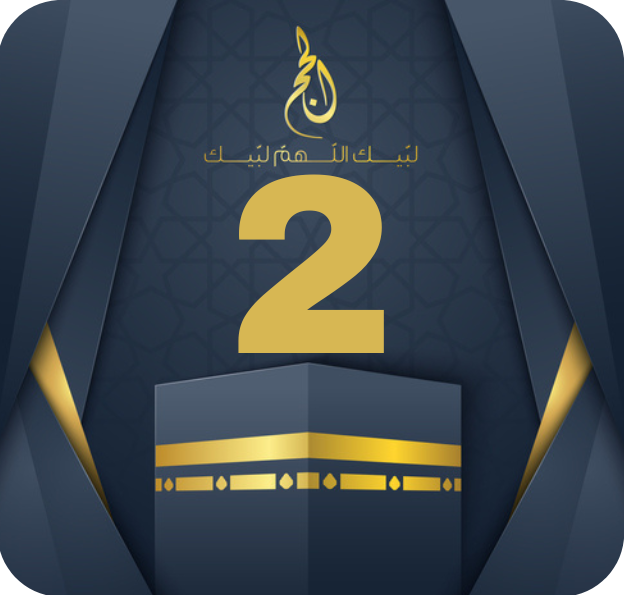
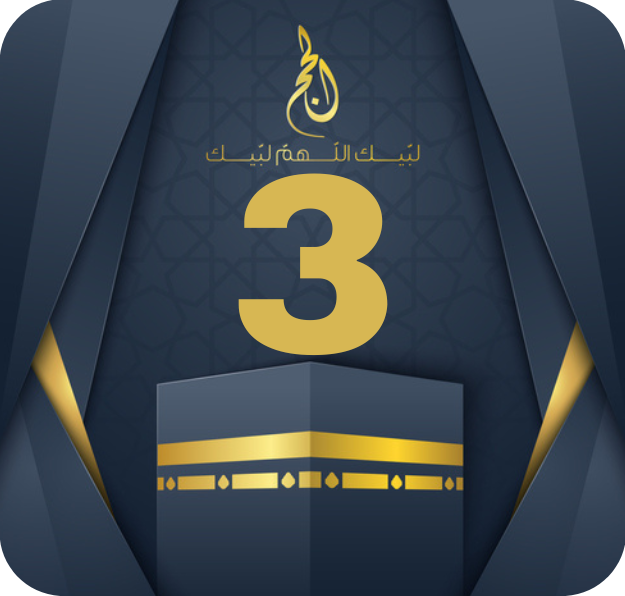
Hajj cards finalized

diff --git a/src/pages/HajjPackages.jsx b/src/pages/HajjPackages.jsx
@@ -1,9 +1,29 @@
 import HajjCard from "../components/HajjCard";
 
 const HajjPackages = () => {
+  let data = [
+    {
+      id: 1,
+      image: "card1.png",
+      text: "Le programme 1 commence à Médine, où vous serez logé dans un hôtel à moins d'1 km de la mosquée du Prophète Muhammad ﷺ. Ensuite, vous serez transféré dans un hôtel à moins d'1 km de la Kaaba à La Mecque. Vous y serez hébergé et conserverez votre chambre à La Mecque pendant les Manasik. Après les Manasik, vous resterez à La Mecque jusqu'à votre transfert à l'aéroport de Djeddah pour votre vol de départ.",
+    },
+    {
+      id: 2,
+      image: "card2.png",
+      text: "Le programme 2 commence à Médine, où vous serez logé dans un hôtel à moins de 2 km de la mosquée du Prophète Muhammad ﷺ. Ensuite, vous serez transféré dans un hôtel à moins de 2 km de la Kaaba à La Mecque. Vous y serez hébergé et conserverez votre chambre à La Mecque pendant les Manasik. Après les Manasik, vous resterez à La Mecque jusqu'à votre transfert à l'aéroport de Djeddah pour votre vol de départ.",
+    },
+    {
+      id: 3,
+      image: "card3.png",
+      text: "Le programme 3 commence à Médine, où vous serez logé dans un hôtel à moins de 3 km de la mosquée du Prophète Muhammad ﷺ. Ensuite, vous serez transféré dans un hôtel à moins de 3 km de la Kaaba à La Mecque. Vous y serez hébergé et conserverez votre chambre à La Mecque pendant les Manasik. Après les Manasik, vous resterez à La Mecque jusqu'à votre transfert à l'aéroport de Djeddah pour votre vol de départ.",
+    },
+  ];
   return (
-    <div>
-      <HajjCard />
+    <div className="">
+      <h1 className="text-center text-4xl mb-12">Forfaits Hajj</h1>
+      <div className="flex flex-col items-center justify-evenly md:flex-row">
+        {data && data.map((item) => <HajjCard item={item} />)}
+      </div>
     </div>
   );
 };

diff --git a/src/components/HajjCard.jsx b/src/components/HajjCard.jsx
@@ -2,25 +2,18 @@ import React from "react";
 import styles from "../styles/HajjCard.module.css";
 import card1 from "../media/card1.png";
 
-const HajjCard = () => {
+const HajjCard = ({ item }) => {
   return (
     <div>
-      <div className={`w-[100%] ${styles.flipCard}`}>
-        <div className={styles.flipCardInner}>
+      <div
+        className={`w-[100%] !h-[20rem] md:h-[auto] mb-12 md:mb-0 ${styles.flipCard}`}
+      >
+        <div className={`${styles.flipCardInner} min-h-auto md:min-h-[20rem]`}>
           <div className={styles.flipCardFront}>
-            <img src={card1} alt="Card1" />
+            <img src={require(`../media/${item.image}`)} />
           </div>
           <div className={styles.flipCardBack}>
-            {/* <p className={styles.title}>BACK</p> */}
-            <p>
-              Le programme 1 commence à Médine, où vous serez logé dans un hôtel
-              à moins d'1 km de la mosquée du Prophète Muhammad ﷺ. Ensuite, vous
-              serez transféré dans un hôtel à moins d'1 km de la Kaaba à La
-              Mecque. Vous y serez hébergé et conserverez votre chambre à La
-              Mecque pendant les Manasik. Après les Manasik, vous resterez à La
-              Mecque jusqu'à votre transfert à l'aéroport de Djeddah pour votre
-              vol de départ.
-            </p>
+            <p className="px-4 py-2 text-justify">{item.text}</p>
           </div>
         </div>
       </div>

diff --git a/src/styles/HajjCard.module.css b/src/styles/HajjCard.module.css
@@ -11,6 +11,7 @@
   position: relative;
   width: 100%;
   height: 100%;
+  /* min-height: 20rem; */
   text-align: center;
   transition: transform 0.8s;
   transform-style: preserve-3d;
@@ -18,6 +19,10 @@
 
 .flipCard:hover .flipCardInner {
   transform: rotateY(180deg);
+}
+
+.flipCardFront img {
+  height: inherit;
 }
 
 .flipCardFront,

diff --git a/src/App.css b/src/App.css
@@ -5,6 +5,11 @@
   text-align: center;
 }
 
+h1 {
+  font-family: Raleway, sans-serif;
+  font-weight: 600;
+}
+
 .error {
   background-color: #f2cdcd;
   border: 2px solid #db3737;
